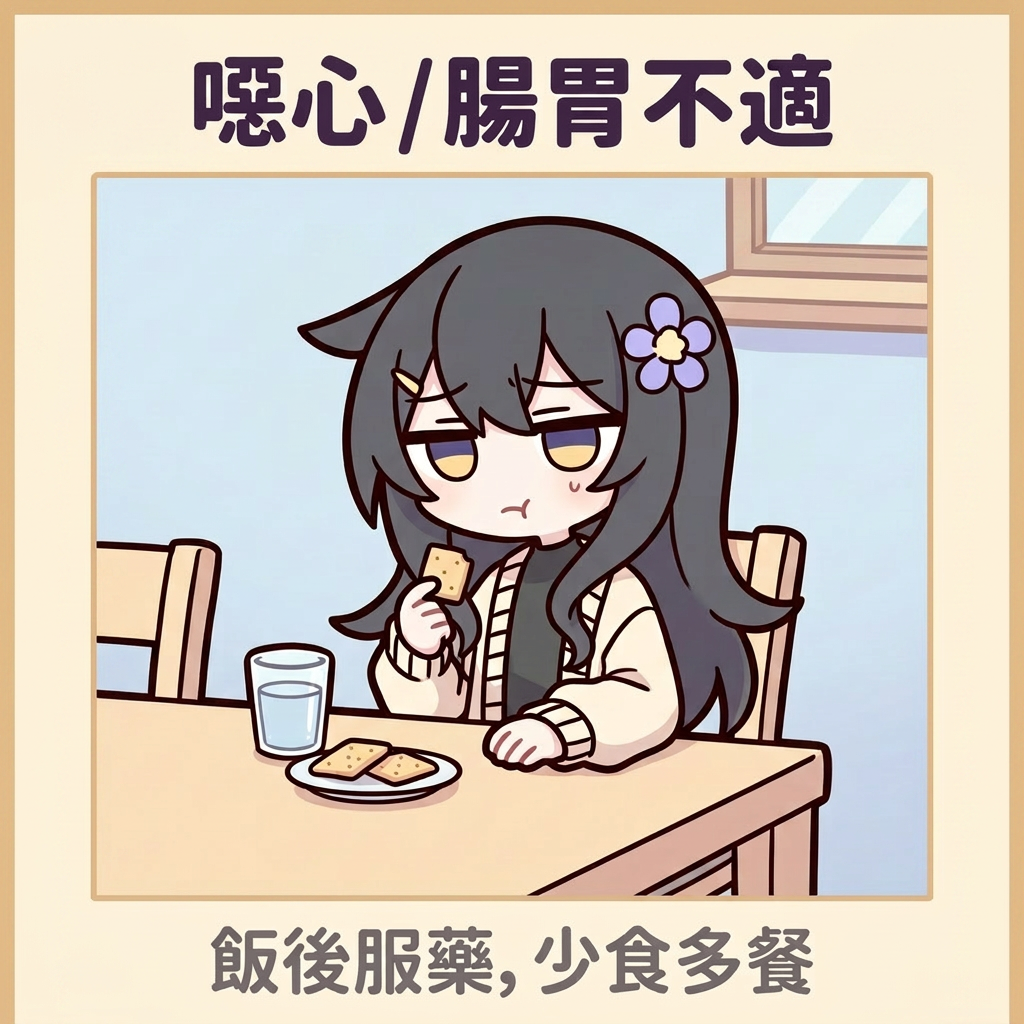
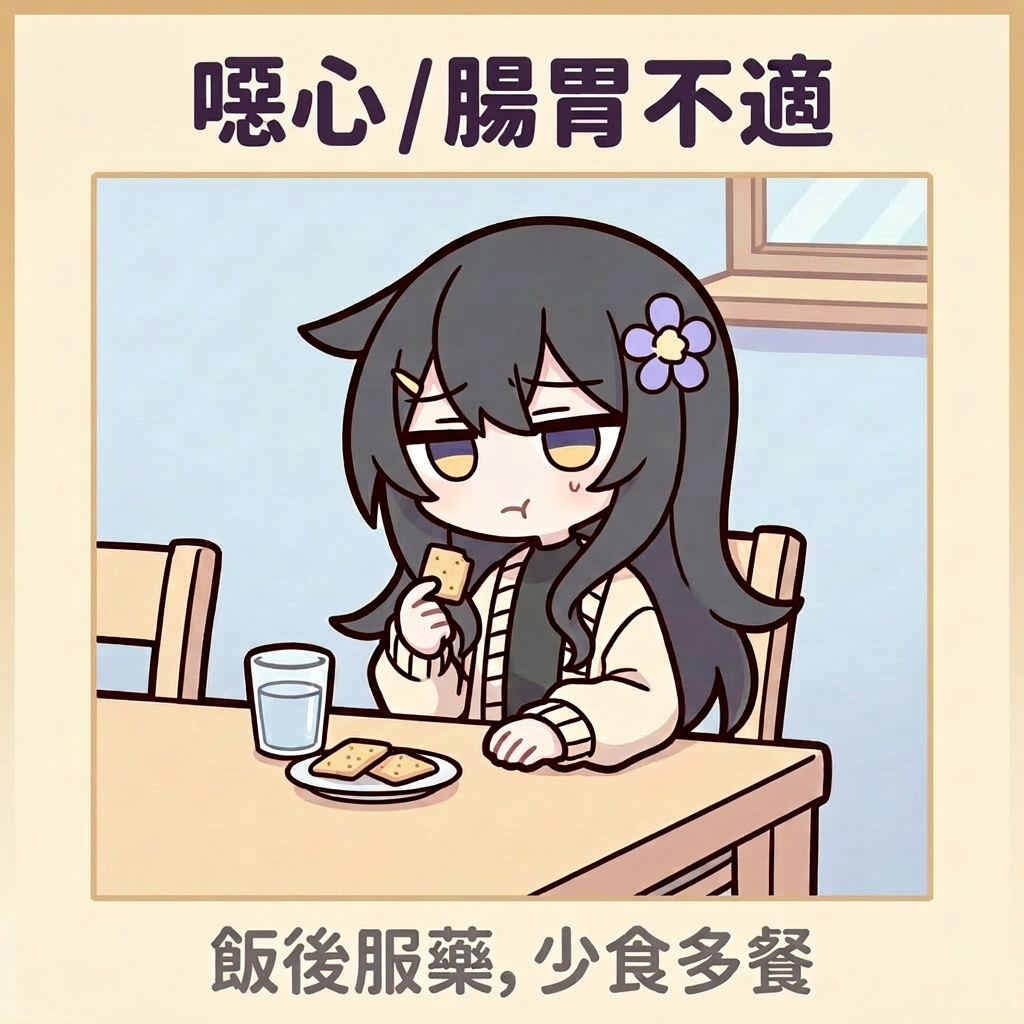
Convert half-width punctuation to full-width in Chinese text; update nausea/anxiety images
- Script-based CJK-adjacent replacement for ,;()：, code/CSS syntax untouched
- Also normalized colons (求醫: -> 求醫：) for consistency with rest of page
- Update antidep_nausea.png and antidep_anxiety.png illustrations

Changed region(s): [[0.9688, 0.4062, 1.0, 1.0], [0.0, 0.4375, 0.0312, 1.0]]

diff --git a/antidepressant.html b/antidepressant.html
@@ -206,21 +206,21 @@
 <!-- ── Hero ── -->
 <div class="hero">
   <h1>開始服用抗抑鬱藥：陪你渡過適應期</h1>
-  <p>開始服用抗抑鬱藥,是照顧自己的重要一步。</p>
-  <p>許多人擔心「服藥會否很難受」。事實是:最初一至兩星期,身體可能會出現一些不適反應,這是常見的過程,而且通常會逐漸消退。</p>
+  <p>開始服用抗抑鬱藥，是照顧自己的重要一步。</p>
+  <p>許多人擔心「服藥會否很難受」。事實是：最初一至兩星期，身體可能會出現一些不適反應，這是常見的過程，而且通常會逐漸消退。</p>
 
   <div class="hero-list">
-    這一頁希望陪伴你了解:
+    這一頁希望陪伴你了解：
     <br>・為什麼副作用往往比療效出現得更早
-    <br>・開始服藥後,身體大致會經歷什麼階段
-    <br>・遇到不適時,可以怎樣應對
+    <br>・開始服藥後，身體大致會經歷什麼階段
+    <br>・遇到不適時，可以怎樣應對
     <br>・什麼情況需要盡快求醫
   </div>
 
   <div class="hero-key">
-    💡 <strong>核心概念:副作用來得快,療效來得慢</strong><br>
-    抗抑鬱藥通常在服用首幾天,身體已經開始產生反應,這解釋了為什麼部分人在初期會出現腸胃不適、頭暈或睏倦等症狀。但情緒真正開始好轉,一般需要較長時間。
-    這個「時間差」是正常的藥理現象,並不代表藥物無效,也不代表你不夠努力。<strong>捱過初期的不適,換來的通常是持續而穩定的情緒改善。</strong>
+    💡 <strong>核心概念：副作用來得快，療效來得慢</strong><br>
+    抗抑鬱藥通常在服用首幾天，身體已經開始產生反應，這解釋了為什麼部分人在初期會出現腸胃不適、頭暈或睏倦等症狀。但情緒真正開始好轉，一般需要較長時間。
+    這個「時間差」是正常的藥理現象，並不代表藥物無效，也不代表你不夠努力。<strong>捱過初期的不適，換來的通常是持續而穩定的情緒改善。</strong>
   </div>
 </div>
 
@@ -229,7 +229,7 @@
      ════════════════════════════════ -->
 <section id="timeline">
   <h2>📅 服藥後的四個階段</h2>
-  <p class="lead">身體適應藥物需要時間。以下是一般情況下,你大致會經歷的過程。</p>
+  <p class="lead">身體適應藥物需要時間。以下是一般情況下，你大致會經歷的過程。</p>
 
   <div class="timeline-strip">
     <img src="antidep_week1.png" alt="第一週：噁心、頭暈、睏倦、腸胃不適" onclick="openLightbox('antidep_week1.png')" />
@@ -238,7 +238,7 @@
     <img src="antidep_week4to8.png" alt="第4至8週：療效趨向穩定" onclick="openLightbox('antidep_week4to8.png')" />
   </div>
 
-  <p class="safety-closer">每個人的反應和時間都不同,以上只是一般參考。若到第 8 週仍無明顯改善,應與醫生討論調整劑量或治療方案。</p>
+  <p class="safety-closer">每個人的反應和時間都不同，以上只是一般參考。若到第 8 週仍無明顯改善，應與醫生討論調整劑量或治療方案。</p>
 </section>
 
 <!-- ════════════════════════════════
@@ -246,7 +246,7 @@
      ════════════════════════════════ -->
 <section id="sideeffects">
   <h2>🩺 常見副作用與應對方法</h2>
-  <p class="lead">大部分副作用都是暫時性的。認識它們,能讓你更有信心地應對。</p>
+  <p class="lead">大部分副作用都是暫時性的。認識它們，能讓你更有信心地應對。</p>
 
   <div class="se-grid">
 
@@ -254,26 +254,26 @@
       <img src="antidep_nausea.png" alt="噁心／腸胃不適" onclick="openLightbox('antidep_nausea.png')" />
       <div class="se-body">
         <p class="row"><span class="row-label">為什麼：</span>藥物在初期會刺激腸胃的血清素受體。</p>
-        <p class="row"><span class="row-label">應對：</span>飯後服藥而非空腹;由低劑量開始;少食多餐,避免油膩食物;薑茶或薑片可能有助紓緩。</p>
-        <p class="row"><span class="row-label">求醫:</span>持續嚴重嘔吐、無法進食,或出現黑便。</p>
+        <p class="row"><span class="row-label">應對：</span>飯後服藥而非空腹；由低劑量開始；少食多餐，避免油膩食物；薑茶或薑片可能有助紓緩。</p>
+        <p class="row"><span class="row-label">求醫：</span>持續嚴重嘔吐、無法進食，或出現黑便。</p>
       </div>
     </div>
 
     <div class="se-card">
       <img src="antidep_headache.png" alt="頭痛" onclick="openLightbox('antidep_headache.png')" />
       <div class="se-body">
-        <p class="row"><span class="row-label">為什麼：</span>腦內神經傳導物質水平變化,初期常見。</p>
-        <p class="row"><span class="row-label">應對：</span>補充水分;必要時可服用普通止痛藥(如撲熱息痛);保持規律睡眠;避免咖啡因過量。</p>
-        <p class="row"><span class="row-label">求醫:</span>頭痛劇烈、突發,或伴隨視力改變、頸部僵硬。</p>
+        <p class="row"><span class="row-label">為什麼：</span>腦內神經傳導物質水平變化，初期常見。</p>
+        <p class="row"><span class="row-label">應對：</span>補充水分；必要時可服用普通止痛藥（如撲熱息痛）；保持規律睡眠；避免咖啡因過量。</p>
+        <p class="row"><span class="row-label">求醫：</span>頭痛劇烈、突發，或伴隨視力改變、頸部僵硬。</p>
       </div>
     </div>
 
     <div class="se-card">
       <img src="antidep_sleep.png" alt="睡眠改變" onclick="openLightbox('antidep_sleep.png')" />
       <div class="se-body">
-        <p class="row"><span class="row-label">為什麼：</span>不同藥物對睡眠的影響不同,部分令人睏倦,部分則令人較難入睡。</p>
-        <p class="row"><span class="row-label">應對：</span>若嗜睡,可考慮晚上服藥;若失眠,可考慮早上服藥;保持固定睡眠時間;避免日間長時間補眠。</p>
-        <p class="row"><span class="row-label">求醫:</span>嚴重影響日常功能的失眠或嗜睡持續超過 2 至 3 週。</p>
+        <p class="row"><span class="row-label">為什麼：</span>不同藥物對睡眠的影響不同，部分令人睏倦，部分則令人較難入睡。</p>
+        <p class="row"><span class="row-label">應對：</span>若嗜睡，可考慮晚上服藥；若失眠，可考慮早上服藥；保持固定睡眠時間；避免日間長時間補眠。</p>
+        <p class="row"><span class="row-label">求醫：</span>嚴重影響日常功能的失眠或嗜睡持續超過 2 至 3 週。</p>
       </div>
     </div>
 
@@ -281,8 +281,8 @@
       <img src="antidep_anxiety.png" alt="焦躁／坐立不安" onclick="openLightbox('antidep_anxiety.png')" />
       <div class="se-body">
         <p class="row"><span class="row-label">為什麼：</span>藥物初期可能暫時提高神經系統的興奮程度。</p>
-        <p class="row"><span class="row-label">應對：</span>由低劑量開始並逐步調高;規律運動有助釋放多餘能量;避免同時攝取大量咖啡因。</p>
-        <p class="row"><span class="row-label">求醫:</span>出現強烈坐立不安、無法靜下來,或情緒念頭加劇(見下方求醫警號)。</p>
+        <p class="row"><span class="row-label">應對：</span>由低劑量開始並逐步調高；規律運動有助釋放多餘能量；避免同時攝取大量咖啡因。</p>
+        <p class="row"><span class="row-label">求醫：</span>出現強烈坐立不安、無法靜下來，或情緒念頭加劇（見下方求醫警號）。</p>
       </div>
     </div>
 
@@ -290,8 +290,8 @@
       <img src="antidep_sexual.png" alt="性功能影響" onclick="openLightbox('antidep_sexual.png')" />
       <div class="se-body">
         <p class="row"><span class="row-label">為什麼：</span>血清素水平提高可能影響性慾或性反應。</p>
-        <p class="row"><span class="row-label">應對：</span>與醫生討論調整劑量或服藥時間;部分藥物影響較細,可與醫生商量轉換;不需忍受,這是可以調整的。</p>
-        <p class="row"><span class="row-label">求醫:</span>影響持續且困擾你時,主動向醫生提出。這是常見且可處理的副作用,不用不好意思。</p>
+        <p class="row"><span class="row-label">應對：</span>與醫生討論調整劑量或服藥時間；部分藥物影響較細，可與醫生商量轉換；不需忍受，這是可以調整的。</p>
+        <p class="row"><span class="row-label">求醫：</span>影響持續且困擾你時，主動向醫生提出。這是常見且可處理的副作用，不用不好意思。</p>
       </div>
     </div>
 
@@ -299,8 +299,8 @@
       <img src="antidep_tremor.png" alt="手震" onclick="openLightbox('antidep_tremor.png')" />
       <div class="se-body">
         <p class="row"><span class="row-label">為什麼：</span>神經系統對藥物的短暫反應。</p>
-        <p class="row"><span class="row-label">應對：</span>通常會隨時間減退;避免過量咖啡因;若影響日常工作,告知醫生調整劑量。</p>
-        <p class="row"><span class="row-label">求醫:</span>震動嚴重、持續不退,或影響精細動作(如寫字)。</p>
+        <p class="row"><span class="row-label">應對：</span>通常會隨時間減退；避免過量咖啡因；若影響日常工作，告知醫生調整劑量。</p>
+        <p class="row"><span class="row-label">求醫：</span>震動嚴重、持續不退，或影響精細動作（如寫字）。</p>
       </div>
     </div>
 
@@ -308,8 +308,8 @@
       <img src="antidep_sweating.png" alt="出汗增多" onclick="openLightbox('antidep_sweating.png')" />
       <div class="se-body">
         <p class="row"><span class="row-label">為什麼：</span>藥物影響體溫調節中樞。</p>
-        <p class="row"><span class="row-label">應對：</span>穿著透氣衣物;避免辛辣食物及酒精;隨身帶備替換衣物。</p>
-        <p class="row"><span class="row-label">求醫:</span>出汗伴隨高熱、心跳加速(可能是嚴重反應的警示,見下方)。</p>
+        <p class="row"><span class="row-label">應對：</span>穿著透氣衣物；避免辛辣食物及酒精；隨身帶備替換衣物。</p>
+        <p class="row"><span class="row-label">求醫：</span>出汗伴隨高熱、心跳加速（可能是嚴重反應的警示，見下方）。</p>
       </div>
     </div>
 
@@ -317,8 +317,8 @@
       <img src="antidep_weight.png" alt="體重變化" onclick="openLightbox('antidep_weight.png')" />
       <div class="se-body">
         <p class="row"><span class="row-label">為什麼：</span>部分藥物影響食慾或新陳代謝。</p>
-        <p class="row"><span class="row-label">應對：</span>定期記錄體重;保持均衡飲食及規律運動;變化明顯時與醫生討論。</p>
-        <p class="row"><span class="row-label">求醫:</span>短時間內體重急速轉變(如一個月內超過 5%)。</p>
+        <p class="row"><span class="row-label">應對：</span>定期記錄體重；保持均衡飲食及規律運動；變化明顯時與醫生討論。</p>
+        <p class="row"><span class="row-label">求醫：</span>短時間內體重急速轉變（如一個月內超過 5%）。</p>
       </div>
     </div>
 
@@ -332,39 +332,39 @@
   <h2>⚠️ 何時需要盡快求醫</h2>
 
   <div class="safety-intro">
-    大部分副作用都是輕微和暫時的。但有少數情況需要<strong>盡快聯絡醫生或求醫</strong>,認識這些警號能讓你更安心地服藥。
+    大部分副作用都是輕微和暫時的。但有少數情況需要<strong>盡快聯絡醫生或求醫</strong>，認識這些警號能讓你更安心地服藥。
   </div>
 
   <div class="safety-grid">
 
     <div class="safety-card">
       <h3>💭 情緒或念頭轉差</h3>
-      <p>開始服藥的頭幾星期,情緒有時會經歷一些起伏,這是身體適應藥物的過程。如果你留意到自己的情緒明顯轉差,或出現傷害自己的念頭,請不要獨自承受,盡快告訴身邊人或聯絡醫生。</p>
-      <p>年輕人在開始服藥的初期,身邊人的陪伴和留意會特別有幫助,這不是因為藥物特別危險,而是這段適應期本身值得多一份關心。</p>
-      <p class="action">👉 隨時可以聯絡醫生,或前往 <a href="crisis.html">求助與守護</a> 頁面查看支援資源。</p>
+      <p>開始服藥的頭幾星期，情緒有時會經歷一些起伏，這是身體適應藥物的過程。如果你留意到自己的情緒明顯轉差，或出現傷害自己的念頭，請不要獨自承受，盡快告訴身邊人或聯絡醫生。</p>
+      <p>年輕人在開始服藥的初期，身邊人的陪伴和留意會特別有幫助，這不是因為藥物特別危險，而是這段適應期本身值得多一份關心。</p>
+      <p class="action">👉 隨時可以聯絡醫生，或前往 <a href="crisis.html">求助與守護</a> 頁面查看支援資源。</p>
     </div>
 
     <div class="safety-card">
-      <h3>🌡️ 血清素症候群(罕見但嚴重)</h3>
-      <p>同時出現:高燒、心跳異常加快、肌肉僵硬或抽搐、意識混亂、大量出汗。通常與同時服用其他血清素類藥物或補充劑有關。</p>
-      <p class="action">👉 這是急症,應立即前往急症室。</p>
+      <h3>🌡️ 血清素症候群（罕見但嚴重）</h3>
+      <p>同時出現：高燒、心跳異常加快、肌肉僵硬或抽搐、意識混亂、大量出汗。通常與同時服用其他血清素類藥物或補充劑有關。</p>
+      <p class="action">👉 這是急症，應立即前往急症室。</p>
     </div>
 
     <div class="safety-card">
       <h3>⚡ 情緒或精力突然大變</h3>
       <p>情緒突然變得異常興奮、精力過剩、睡眠需求大減、思緒飛快、判斷力下降。這可能是潛藏的情緒傾向被藥物誘發出來。</p>
-      <p class="action">👉 盡快聯絡醫生,不要自行停藥或調整劑量。</p>
+      <p class="action">👉 盡快聯絡醫生，不要自行停藥或調整劑量。</p>
     </div>
 
     <div class="safety-card">
       <h3>🫁 嚴重過敏反應</h3>
       <p>皮疹、面部或喉嚨腫脹、呼吸困難。</p>
-      <p class="action">👉 這是急症,應立即求醫。</p>
+      <p class="action">👉 這是急症，應立即求醫。</p>
     </div>
 
   </div>
 
-  <p class="safety-closer">如你不肯定某個反應是否需要求醫,寧可主動聯絡醫生或藥劑師確認,這永遠是安全的做法。</p>
+  <p class="safety-closer">如你不肯定某個反應是否需要求醫，寧可主動聯絡醫生或藥劑師確認，這永遠是安全的做法。</p>
 </section>
 
 <!-- ════════════════════════════════
@@ -372,14 +372,14 @@
      ════════════════════════════════ -->
 <section id="adherence">
   <h2>🗓️ 堅持服藥的小貼士</h2>
-  <p class="lead">規律服藥,是讓藥物發揮效用的關鍵。</p>
+  <p class="lead">規律服藥，是讓藥物發揮效用的關鍵。</p>
 
   <ul class="adherence-list">
-    <li><span class="ic">⏰</span><span>定時定候服藥,配合日常習慣(如刷牙後、早餐時)建立提示。</span></li>
-    <li><span class="ic">📱</span><span>使用藥盒或手機鬧鐘提醒,減少漏服。</span></li>
-    <li><span class="ic">🚫</span><span>不要因為感覺好轉而自行停藥,突然停藥可能引起不適,調整劑量請與醫生商量。</span></li>
-    <li><span class="ic">💊</span><span>若忘記服藥,可查閱藥物說明或詢問藥劑師應如何補服。</span></li>
-    <li><span class="ic">📝</span><span>覆診前記低想問醫生的問題,例如副作用、劑量或療效的疑問。</span></li>
+    <li><span class="ic">⏰</span><span>定時定候服藥，配合日常習慣（如刷牙後、早餐時）建立提示。</span></li>
+    <li><span class="ic">📱</span><span>使用藥盒或手機鬧鐘提醒，減少漏服。</span></li>
+    <li><span class="ic">🚫</span><span>不要因為感覺好轉而自行停藥，突然停藥可能引起不適，調整劑量請與醫生商量。</span></li>
+    <li><span class="ic">💊</span><span>若忘記服藥，可查閱藥物說明或詢問藥劑師應如何補服。</span></li>
+    <li><span class="ic">📝</span><span>覆診前記低想問醫生的問題，例如副作用、劑量或療效的疑問。</span></li>
   </ul>
 </section>
 
@@ -388,27 +388,27 @@
      ════════════════════════════════ -->
 <section id="more">
   <h2>🔗 配合使用的工具</h2>
-  <p class="lead">服藥期間,這些工具能幫助你記錄狀態、照顧情緒。</p>
+  <p class="lead">服藥期間，這些工具能幫助你記錄狀態、照顧情緒。</p>
   <div class="links-grid">
     <a class="link-card" href="moodchart.html">
       <span class="ic">📊</span>
       <h4>情緒記錄表</h4>
-      <p>每天記下情緒和睡眠,讓覆診時的討論更具體。</p>
+      <p>每天記下情緒和睡眠，讓覆診時的討論更具體。</p>
     </a>
     <a class="link-card" href="depression.html">
       <span class="ic">🌤️</span>
       <h4>抑鬱自助</h4>
-      <p>每天的一小步,陪你渡過情緒低落的日子。</p>
+      <p>每天的一小步，陪你渡過情緒低落的日子。</p>
     </a>
     <a class="link-card" href="index.html#breathing">
       <span class="ic">🌬️</span>
       <h4>深呼吸練習</h4>
-      <p>初期焦躁不安時,先安撫身體。</p>
+      <p>初期焦躁不安時，先安撫身體。</p>
     </a>
     <a class="link-card" href="crisis.html">
       <span class="ic">🤍</span>
       <h4>求助與守護</h4>
-      <p>當情緒非常痛苦、有傷害自己的念頭時,這裡有即時的支援。</p>
+      <p>當情緒非常痛苦、有傷害自己的念頭時，這裡有即時的支援。</p>
     </a>
   </div>
 </section>
@@ -416,10 +416,10 @@
 <!-- ── Footer ── -->
 <footer>
   <strong>💛 請記住</strong>
-  本頁面為教育及自助參考資料,並不能取代醫生的專業評估與治療。<br>
-  每種藥物、每個人的反應都不同,如有任何疑問或不適,請與你的醫生或藥劑師傾談。
+  本頁面為教育及自助參考資料，並不能取代醫生的專業評估與治療。<br>
+  每種藥物、每個人的反應都不同，如有任何疑問或不適，請與你的醫生或藥劑師傾談。
   <div class="divider"></div>
-  適應期會過去。你願意踏出這一步,已經很了不起。🌱
+  適應期會過去。你願意踏出這一步，已經很了不起。🌱
 </footer>
 
 <!-- Back to top -->